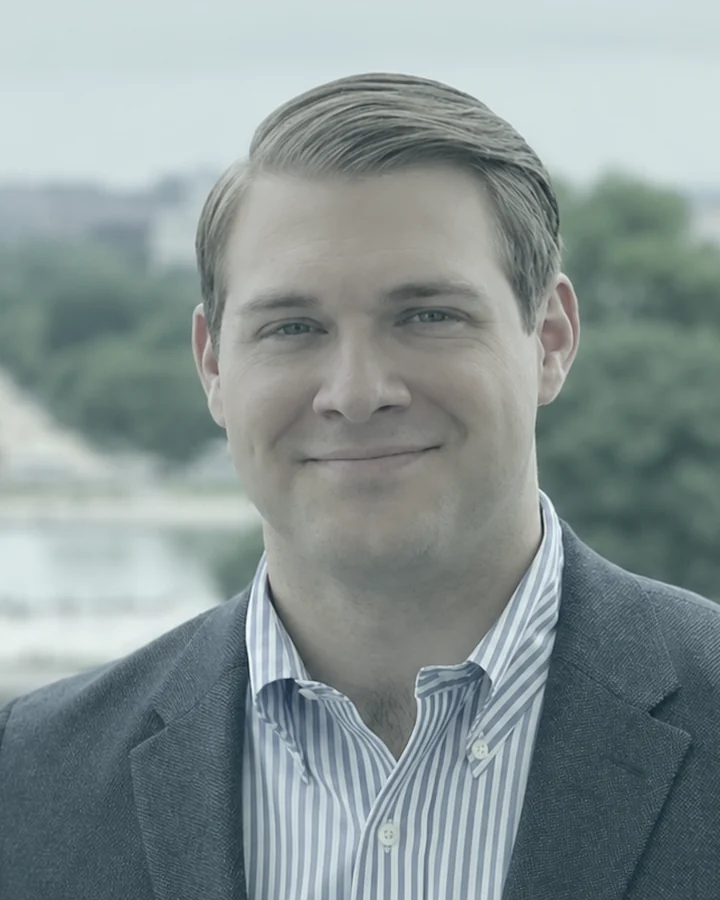
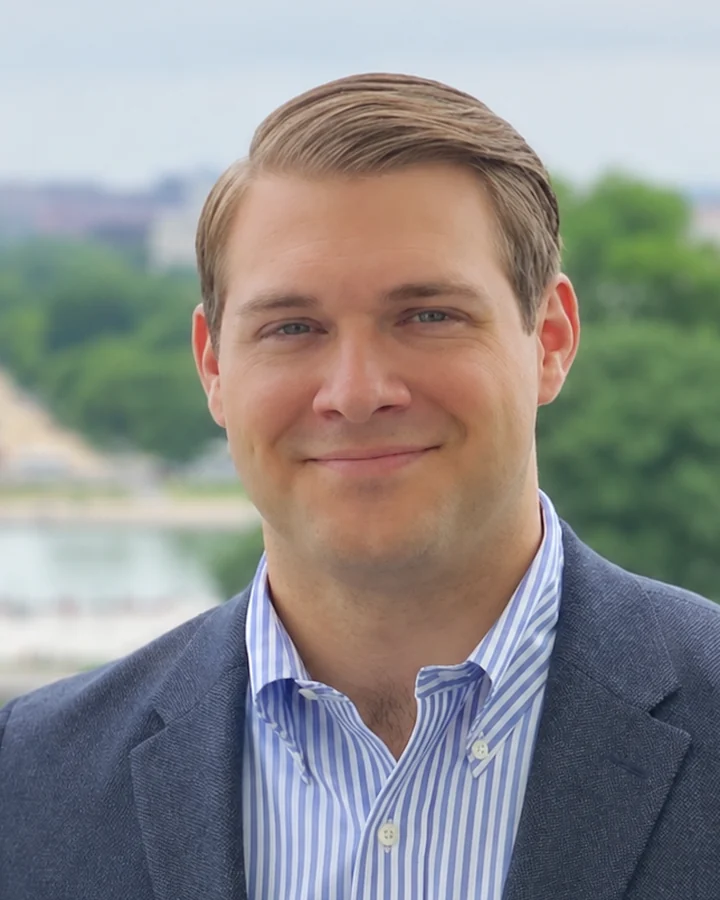
Drop the duotone from team headshots
Photos render in natural color again. The 4:5 crop, shared eye line,
matched head size, and exposure matching all stay, so the set still
reads as one system. The normalize script also takes its source
directory from PGC_HEADSHOT_SRC instead of assuming its own folder.

Claude-Session: https://claude.ai/code/session_01Cv2VkYjiNrjRAN7USBrmRW

diff --git a/tools/normalize_headshots.py b/tools/normalize_headshots.py
@@ -5,9 +5,10 @@ For every source photo:
   1. Detect the face (and eyes where possible).
   2. Crop to 4:5 so the eye line sits at EYE_Y of the frame height and the
      head occupies the same proportion of the frame in every card.
-  3. Apply a subtle brand duotone (per PGC Brand Guidelines /6.1) so the
-     mismatched backgrounds — studio grey, brick, foliage, dark bar —
-     read as one set.
+  3. Match exposure so every face reads at the same brightness across the
+     mismatched sources — studio grey, brick, foliage, dark bar.
+
+Photos stay in natural color; no duotone or gradient treatment is applied.
 
 Output: 720x900 WebP.
 """
@@ -16,18 +17,16 @@ import cv2
 import numpy as np
 from PIL import Image
 
-SCRATCH = os.path.dirname(os.path.abspath(__file__))
+# Directory holding the original photos (not committed — they are the
+# unprocessed source files). Override with PGC_HEADSHOT_SRC.
+SRC_DIR = os.environ.get("PGC_HEADSHOT_SRC",
+                         os.path.dirname(os.path.abspath(__file__)))
 OUT_DIR = "/home/user/ARC-capital/assets/img"
 
 # --- Framing constants (the whole point: identical across every card) ---
 OUT_W, OUT_H = 720, 900          # 4:5
 EYE_Y = 0.36                     # eye line at ~upper third
 FACE_H_FRAC = 0.40               # face box height as a fraction of frame height
-
-# --- Brand duotone ---
-SHADOW = np.array([10, 40, 46], dtype=np.float32)     # deep teal
-HIGHLIGHT = np.array([228, 245, 242], dtype=np.float32)  # mint-tinted white
-DUOTONE_MIX = 0.55               # blend against the desaturated original
 
 SOURCES = {
     "team-jeron-peoples.webp":     "headshots3/PGC Headshots/Jeron.jpg",
@@ -79,20 +78,8 @@ def match_exposure(pil_img, face_box, target=0.56):
     return Image.fromarray((np.clip(out, 0, 1) * 255).astype(np.uint8)), gamma
 
 
-def duotone(pil_img):
-    a = np.asarray(pil_img).astype(np.float32) / 255.0
-    lum = (0.299 * a[..., 0] + 0.587 * a[..., 1] + 0.114 * a[..., 2])
-    # gentle S-curve so faces keep modelling
-    lum = np.clip((lum - 0.5) * 1.06 + 0.5, 0, 1)
-    ramp = (SHADOW[None, None, :] / 255.0 * (1 - lum[..., None])
-            + HIGHLIGHT[None, None, :] / 255.0 * lum[..., None])
-    desat = np.repeat(lum[..., None], 3, axis=2) * 0.35 + a * 0.65
-    out = ramp * DUOTONE_MIX + desat * (1 - DUOTONE_MIX)
-    return Image.fromarray((np.clip(out, 0, 1) * 255).astype(np.uint8))
-
-
 def process(src_rel, out_name):
-    src = os.path.join(SCRATCH, src_rel)
+    src = os.path.join(SRC_DIR, src_rel)
     bgr = cv2.imread(src)
     if bgr is None:
         raise RuntimeError(f"cannot read {src}")
@@ -126,7 +113,6 @@ def process(src_rel, out_name):
     fb = (max(0, int((fx - left) * sx)), max(0, int((fy - top) * sy)),
           min(OUT_W, int((fx + fw - left) * sx)), min(OUT_H, int((fy + fh - top) * sy)))
     img, gamma = match_exposure(img, fb)
-    img = duotone(img)
     img.save(os.path.join(OUT_DIR, out_name), "WEBP", quality=86, method=6)
 
     # Report where the eye line and face actually landed post-crop.

diff --git a/README.md b/README.md
@@ -53,8 +53,8 @@ is a required radio group (the old Wix site used two independent checkboxes).
    a captcha as well. Confirm the real destination inbox with the team.
 3. **Team headshots.** All seven have photos, normalized to one system by
    `tools/normalize_headshots.py`: 4:5 portrait (720×900 WebP), eye line at 36% of
-   frame height, matched head size and exposure, and a brand duotone so the varied
-   backgrounds read as one set. Three sources are only 400×400 (Seaford, Griffin,
+   frame height, and matched head size and exposure. Photos stay in natural color.
+   Three sources are only 400×400 (Seaford, Griffin,
    Hunt) and are upscaled — request higher-resolution originals when available.
    Re-run the script after replacing any source photo.
 4. **Open Graph image.** No `og:image` yet — export a 1200×630 card from the wordmark
